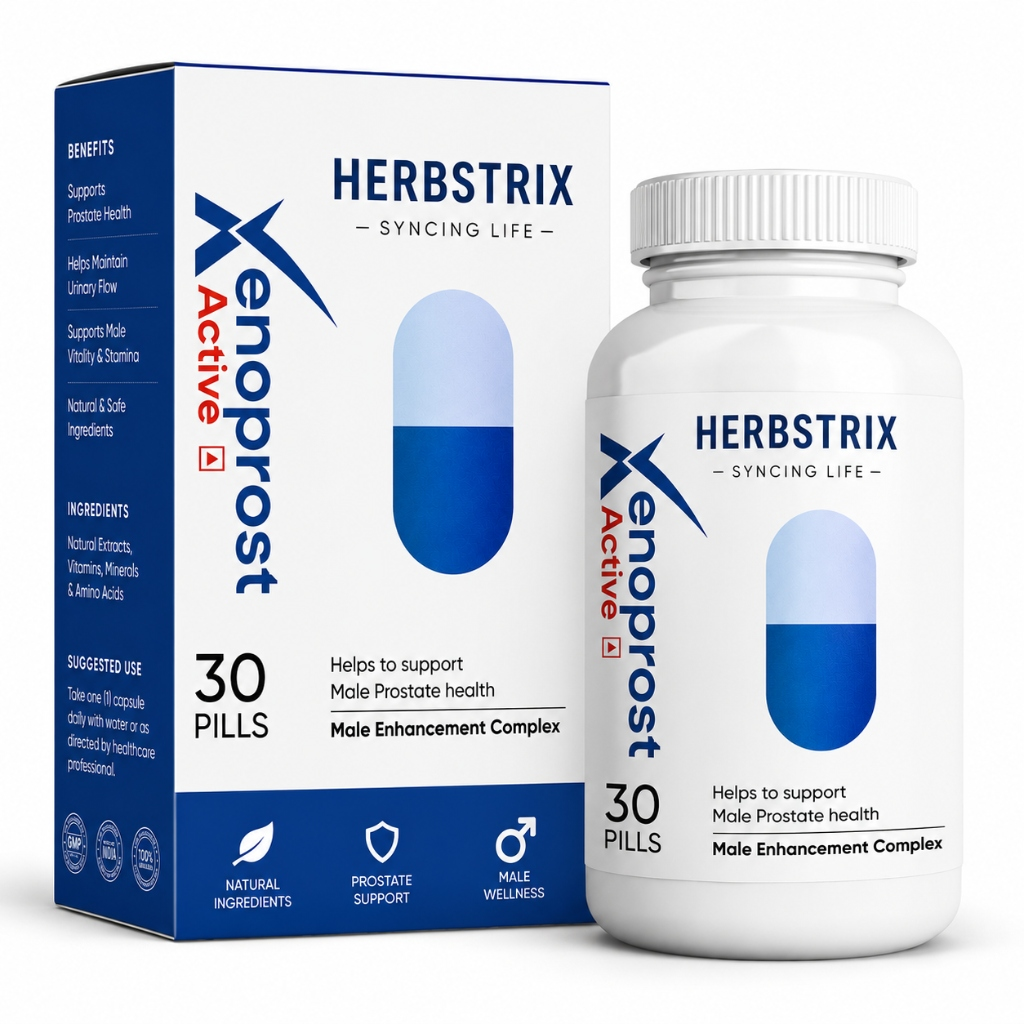
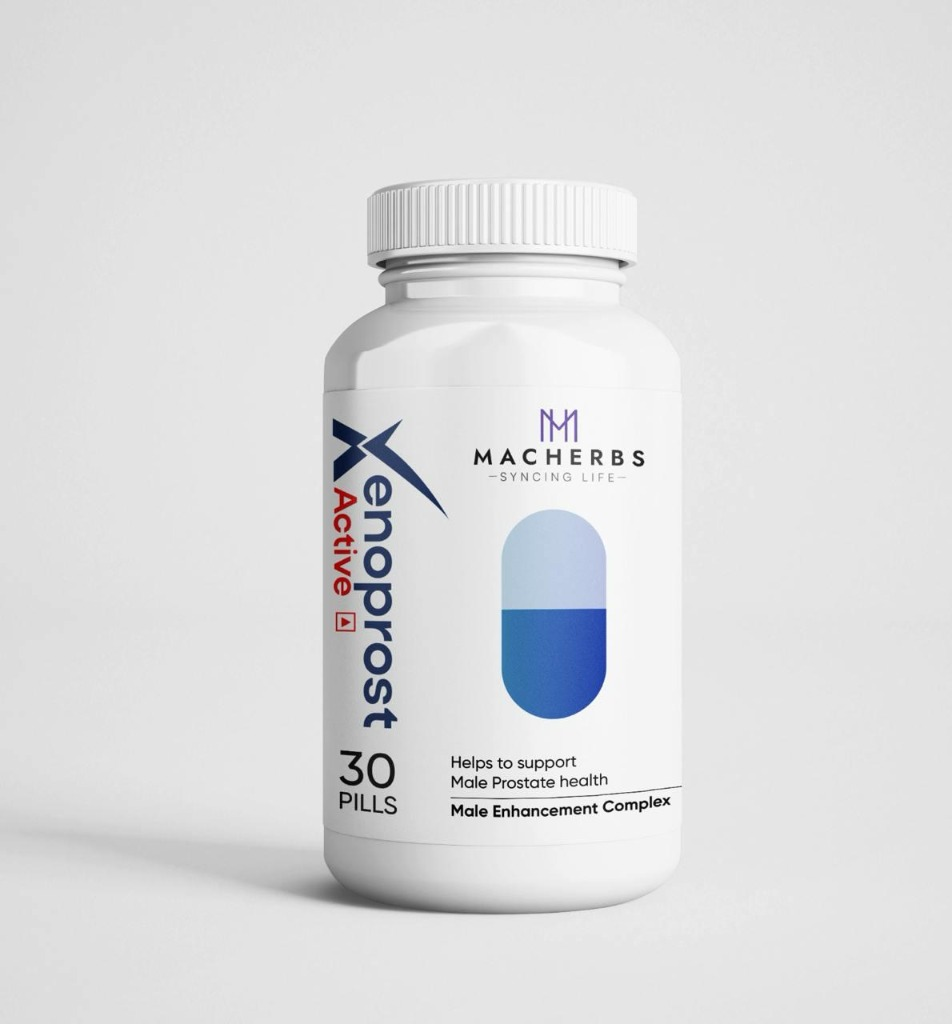
added image

diff --git a/script.js b/script.js
@@ -192,10 +192,33 @@ document.addEventListener('DOMContentLoaded', () => {
                     submitBtn.disabled = true;
                     submitBtn.textContent = 'भेजा जा रहा है...';
 
-                    // Track Meta Pixel Lead Event
-                    if (typeof window.fbq === 'function') {
-                        window.fbq('track', 'Lead');
-                    }
+                    // Function to fire Meta Pixel Lead event
+                    const fireMetaPixelLead = () => {
+                        try {
+                            if (typeof window.fbq === 'function') {
+                                window.fbq('track', 'Lead', {
+                                    content_name: 'Alpha Man',
+                                    value: 1999,
+                                    currency: 'INR'
+                                });
+                                console.log('✅ Meta Pixel Lead Event Tracked Successfully!');
+                            } else if (typeof fbq === 'function') {
+                                fbq('track', 'Lead', {
+                                    content_name: 'Alpha Man',
+                                    value: 1999,
+                                    currency: 'INR'
+                                });
+                                console.log('✅ Meta Pixel Lead Event Tracked via fbq!');
+                            } else {
+                                console.warn('⚠️ Meta Pixel (fbq) is not defined or blocked by AdBlocker.');
+                            }
+                        } catch (err) {
+                            console.error('❌ Error tracking Meta Pixel Lead event:', err);
+                        }
+                    };
+
+                    // Fire Meta Pixel Lead Event immediately on submission
+                    fireMetaPixelLead();
 
                     // Duplicate Lead Prevention Check (Client-side)
                     const normalizedPhone = phoneValue.replace(/\D/g, "");
@@ -208,7 +231,7 @@ document.addEventListener('DOMContentLoaded', () => {
 
                     if (submittedPhones.includes(normalizedPhone)) {
                         console.warn('Duplicate lead prevented for number:', phoneValue);
-                        // Mimic successful submission flow for UX consistency
+                        // Still ensure pixel lead event was fired above for test tracking
                         setTimeout(() => {
                             submitBtn.disabled = false;
                             submitBtn.textContent = originalBtnText;